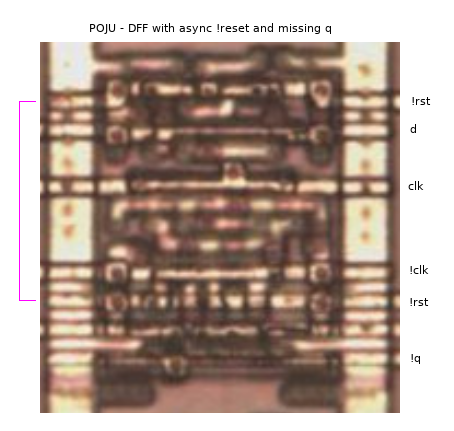
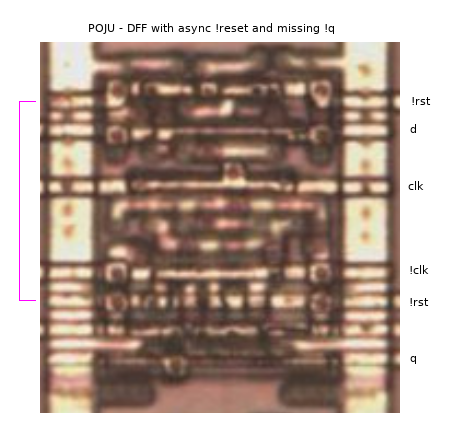
Fix DFFR Variant C documentation

Changed region(s): [[0.2775, 0.0603, 0.7401, 0.0905], [0.185, 0.0302, 0.2467, 0.0905], [0.8943, 0.8144, 0.9251, 0.8445]]

diff --git a/doc/dmg_cells.html b/doc/dmg_cells.html
@@ -1582,8 +1582,7 @@ cell nearby that generates the inverted clock. The flip-flop triggers on a posit
 edge of <i>!clk</i>.</p>
 <p>There is one external connection always made on this cell (see pink line in the picture) that seem to be
 necessary for it to work.</p>
-<p>This variant is similar to variant B, but it is missing the <i>q</i> output. Furthermore, it is one row shorter:
-There is only a single row between <i>!rst</i> and <i>!q</i> instead of two.</p>
+<p>This variant is similar to variant B, but it is missing the <i>!q</i> output. Furthermore, it is two rows shorter.</p>
 <p><i>TODO: Not really sure about clock input polarity.</i></p>
 <p>Name in <a href="https://github.com/furrtek/DMG-CPU-Inside">DMG-CPU-Inside</a>: DTFF</p>
 <table>
@@ -1603,8 +1602,8 @@ a positive edge on the <i>clk</i> input at the same time.</td></tr>
 <td>Active-low reset input. Data inside the flip-flop gets reset to 0 when <i>!rst</i> is low. There are
 two <i>!rst</i> inputs to this cell, which are externally connected to each other (by the pink line in
 the picture).</td></tr>
-<tr><td><i>!q</i></td>
-<td>Inverted data output.</td></tr>
+<tr><td><i>q</i></td>
+<td>Data output.</td></tr>
 </table></td></tr>
 </table>
 <p>Instances:
